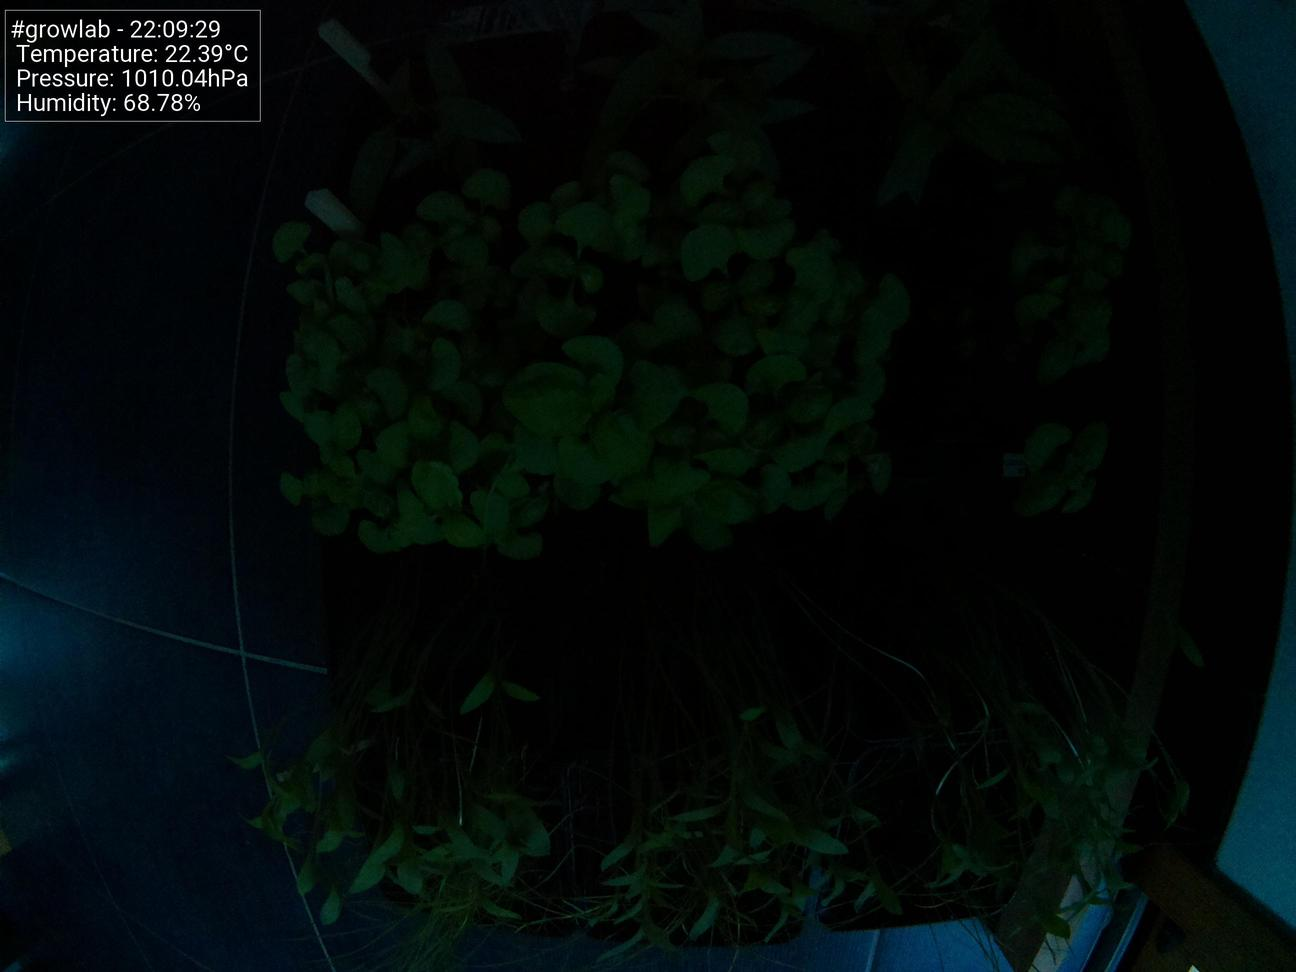
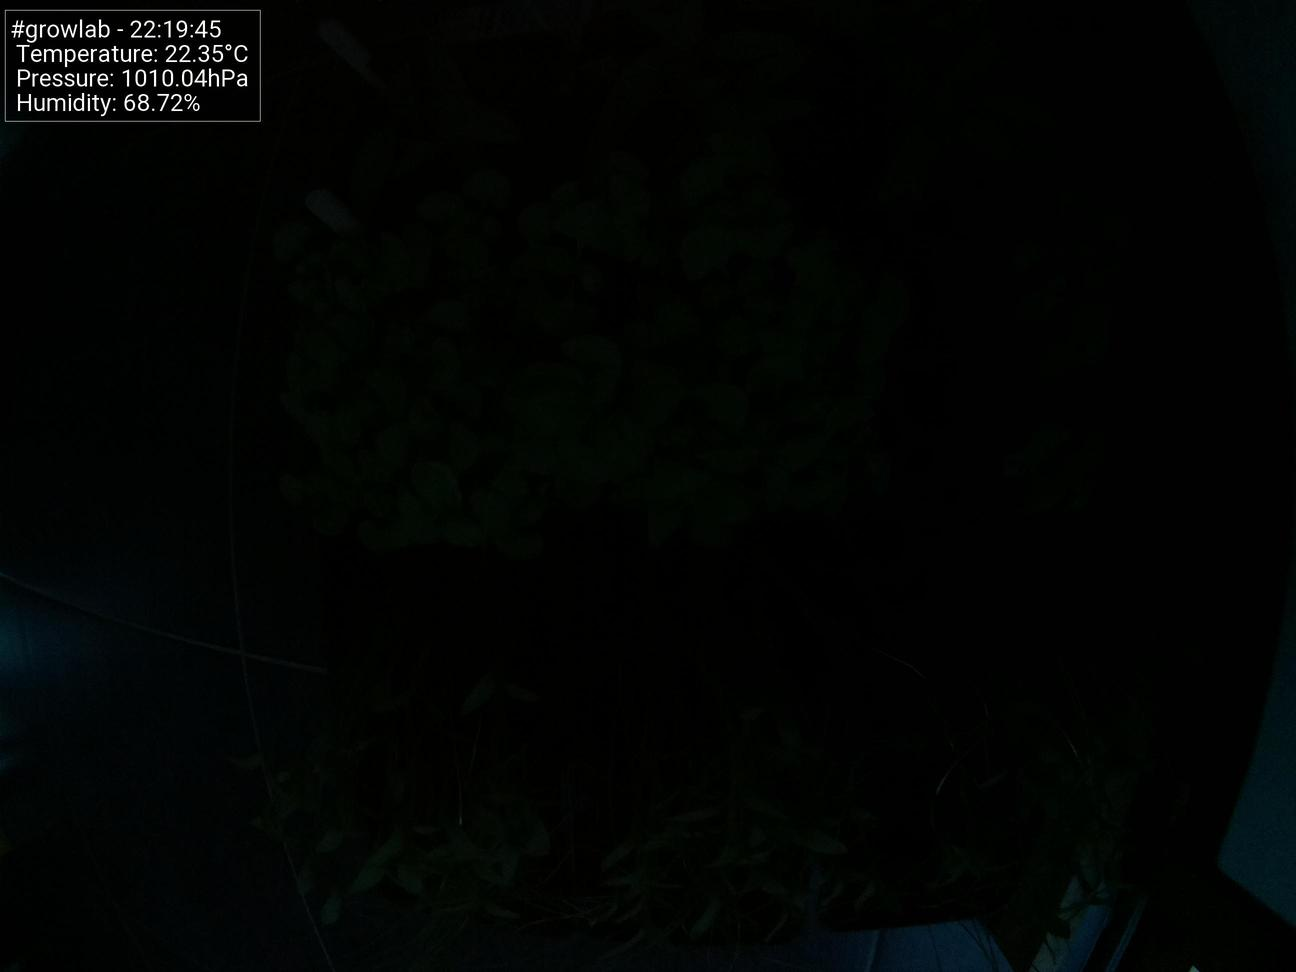
Update images at Mon 28 Jun 22:19:53 CEST 2021

diff --git a/docs/index.html b/docs/index.html
@@ -47,15 +47,15 @@
                         <tbody>
                             <tr>
                                 <td>Time</td>
-                                <td>22:09:29</td>
+                                <td>22:19:45</td>
                             </tr>
                             <tr>
                                 <td>Temperature</td>
-                                <td>22.39°C</td>
+                                <td>22.35°C</td>
                             </tr>
                             <tr>
                                 <td>Humidity</td>
-                                <td>68.78%</td>
+                                <td>68.72%</td>
                             </tr>
                             <tr>
                                 <td>Pressure</td>
@@ -67,7 +67,7 @@
 
                 <h5>Latest image</h5>
                 <div style="width: 85%;">
-                            <img class="figure-img img-fluid rounded" src="./preview.jpg?uid=1624910978.2720318">
+                            <img class="figure-img img-fluid rounded" src="./preview.jpg?uid=1624911593.0565228">
                 </div>
             </div>
         </div>
